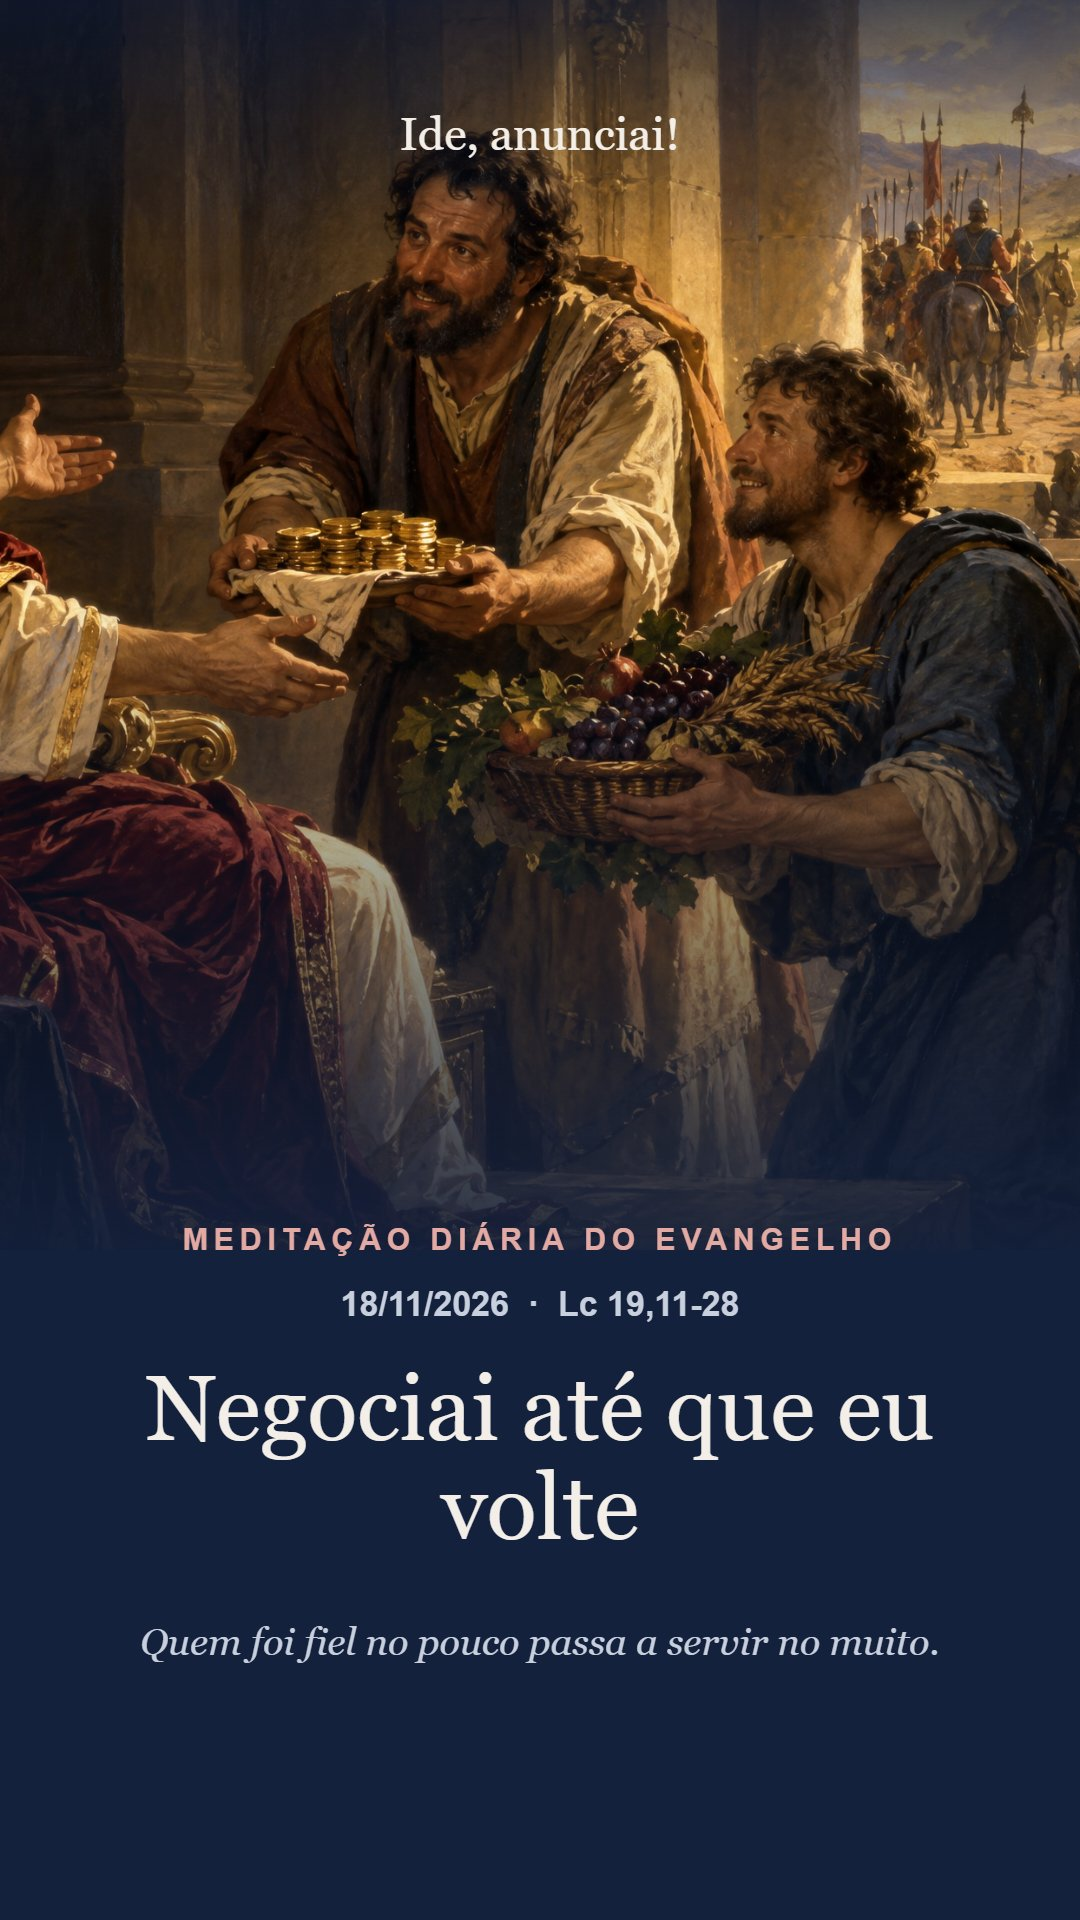
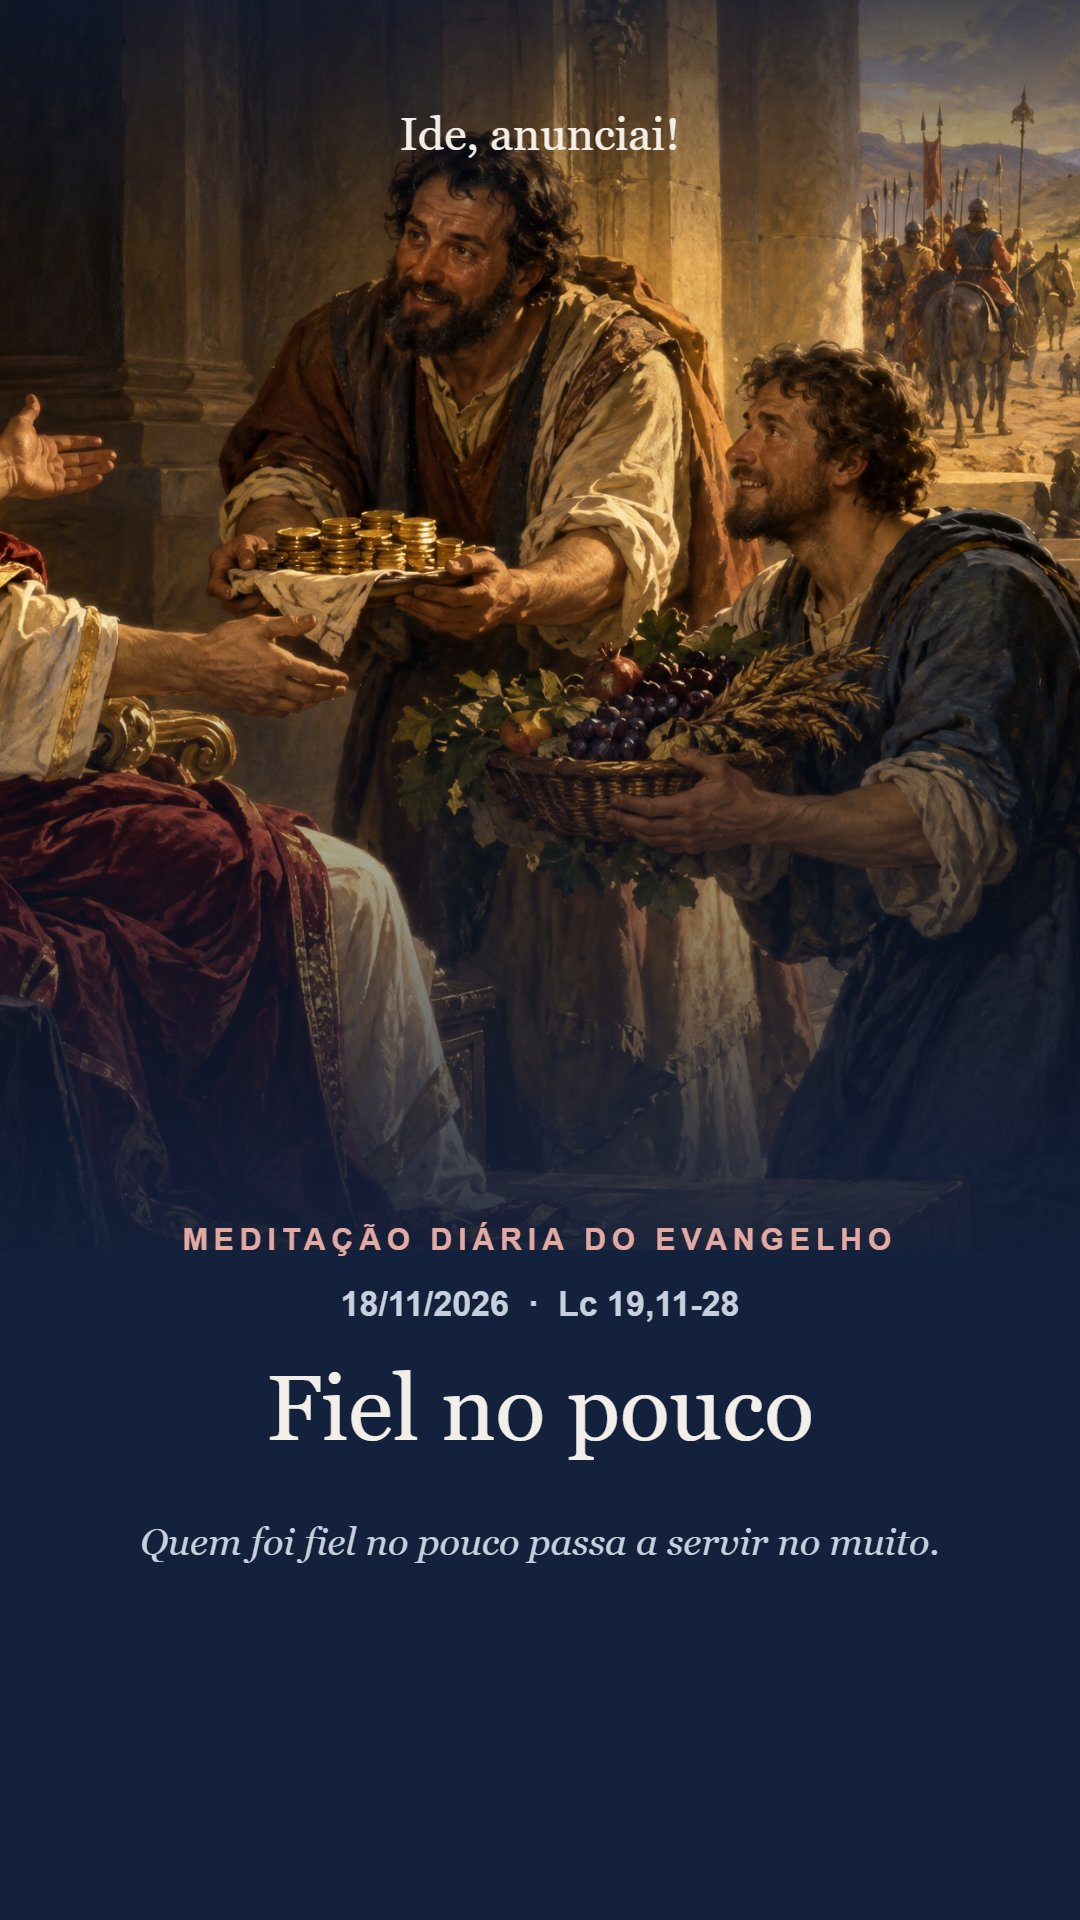
Add files via upload

diff --git a/2026-11-18.html b/2026-11-18.html
@@ -1,11 +1,11 @@
 <!DOCTYPE html>
 <html>
 <head>
-<title>Negociai até que eu volte — Ide, anunciai!</title>
+<title>Fiel no pouco — Ide, anunciai!</title>
 <meta name="description" content="Quem foi fiel no pouco passa a servir no muito.">
 <meta property="og:type" content="article">
 <meta property="og:site_name" content="Ide, anunciai!">
-<meta property="og:title" content="Meditação Diária do Evangelho · 18/11/2026 · Negociai até que eu volte">
+<meta property="og:title" content="Meditação Diária do Evangelho · 18/11/2026 · Fiel no pouco">
 <meta property="og:description" content="Quem foi fiel no pouco passa a servir no muito.">
 <meta property="og:image" content="https://ideanunciai.com.br/assets/2026-11-18-thumb.jpg">
 <meta property="og:image:width" content="1200">

diff --git a/reflexoes.js b/reflexoes.js
@@ -2519,7 +2519,7 @@ window.REFLEXOES = [
     "data": "2026-11-18",
     "tempo": "33ª Semana do Tempo Comum — Ano II",
     "cor": "Verde",
-    "titulo": "Negociai até que eu volte",
+    "titulo": "Fiel no pouco",
     "frase": "Quem foi fiel no pouco passa a servir no muito.",
     "leituras": [
       {
